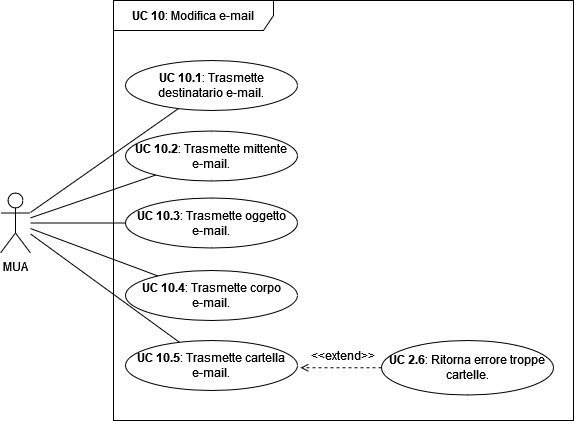
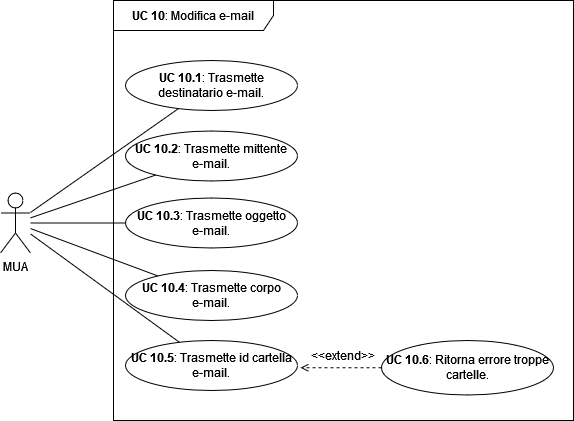
uc10 ok

Changed region(s): [[0.6516, 0.8337, 0.9477, 0.8646], [0.2073, 0.8337, 0.5035, 0.8646]]

diff --git a/src/analisi_dei_requisiti/sections/usecase/UC10.tex b/src/analisi_dei_requisiti/sections/usecase/UC10.tex
@@ -1,16 +1,11 @@
 %LTeX: language=it
-\begin{figure}[h]
+\begin{figure}[H]
     \includegraphics[width=0.75\textwidth]{sections/uc_imgs/UC-modifica.png}
     \centering
     \caption{Casi d'uso relativi alla modifica}
 \end{figure}
 
 \subsection{UC 10 - Modifica e-mail} \label{sec:UC10}
-    \begin{figure}[h]
-        \includegraphics[width=0.85\textwidth]{sections/uc_imgs/UC10.png}
-        \centering
-        \caption{Diagramma sotto-casi UC 10}
-    \end{figure}
     \begin{itemize}
         \item \textbf{Attore principale}: MUA;
         \item \textbf{Descrizione}: il MUA deve poter modificare una e-mail nel sistema;
@@ -36,13 +31,13 @@
             \end{enumerate}
     \end{itemize}
 
-    \begin{figure}[h]
-        \includegraphics[width=0.75\textwidth]{sections/uc_imgs/UC10.png}
+    \begin{figure}[H]
+        \includegraphics[width=0.85\textwidth]{sections/uc_imgs/UC10.png}
         \centering
-        \caption{Diagramma sotto-casi UC 10.1}
+        \caption{Diagramma sotto-casi UC 10}
     \end{figure}
 
-    \subsubsection{UC 10.1 - Trasmette il destinatario dell'e-mail} \label{sec:UC10.1}
+    \subsubsection{UC 10.1 - Trasmette destinatario e-mail} \label{sec:UC10.1}
     \begin{itemize}
         \item \textbf{Attore}: MUA;
         \item \textbf{Descrizione}: il MUA invia al sistema il nuovo destinatario dell'e-mail;
@@ -57,7 +52,7 @@
         \item \textbf{Estensioni}: nessuna;
     \end{itemize}
 
-    \subsubsection{UC 10.2 - Trasmette il mittente dell'e-mail} \label{sec:UC10.2}
+    \subsubsection{UC 10.2 - Trasmette mittente e-mail} \label{sec:UC10.2}
     \begin{itemize}
         \item \textbf{Attore}: MUA;
         \item \textbf{Descrizione}: il MUA invia al sistema il nuovo mittente dell'e-mail;
@@ -72,7 +67,7 @@
         \item \textbf{Estensioni}: nessuna.
     \end{itemize}
 
-    \subsubsection{UC 10.3 - Trasmette l'oggetto dell'e-mail} \label{sec:UC10.3}
+    \subsubsection{UC 10.3 - Trasmette oggetto e-mail} \label{sec:UC10.3}
     \begin{itemize}
         \item \textbf{Attore}: MUA;
         \item \textbf{Descrizione}: il MUA invia al sistema il nuovo oggetto dell'e-mail;
@@ -87,7 +82,7 @@
         \item \textbf{Estensioni}: nessuna.
     \end{itemize}
 
-    \subsubsection{UC 10.4 - Trasmette il corpo dell'e-mail} \label{sec:UC10.4}
+    \subsubsection{UC 10.4 - Trasmette corpo e-mail} \label{sec:UC10.4}
     \begin{itemize}
         \item \textbf{Attore}: MUA;
         \item \textbf{Descrizione}: il MUA invia al sistema il nuovo corpo dell'e-mail;
@@ -102,7 +97,7 @@
         \item \textbf{Estensioni}: nessuna.
     \end{itemize}
 
-    \subsubsection{UC 10.5 - Trasmette id cartella dell'e-mail} \label{sec:UC10.5}
+    \subsubsection{UC 10.5 - Trasmette id cartella e-mail} \label{sec:UC10.5}
     \begin{itemize}
         \item \textbf{Attore}: MUA;
         \item \textbf{Descrizione}: il MUA invia al sistema il nuovo id della cartella di destinazione dell'e-mail;
@@ -116,14 +111,14 @@
         \item \textbf{Generalizzazioni}: nessuna;
         \item \textbf{Estensioni}:             
         \begin{enumerate}[label=\alph*.]
-            \item ci sono troppe cartelle di destinazione in cui salvare l'email:
+            \item il sistema non riesce a modificare l'e-mail perchè ci sono troppe cartelle di destinazione in cui salvare l'email:
             \begin{enumerate}[label=\arabic*.]
                 \item il sistema ritorna un errore al MUA di troppe cartelle (\hyperref[sec:UC10.6]{UC 10.6}).
             \end{enumerate}
         \end{enumerate}
     \end{itemize}
 
-    \subsubsection{UC 10.6 - Ritorna l'errore troppe cartelle} \label{sec:UC10.6}
+    \subsubsection{UC 10.6 - Ritorna errore troppe cartelle} \label{sec:UC10.6}
     \begin{itemize}
         \item \textbf{Attore}: MUA;
         \item \textbf{Descrizione}: il MUA riceve l'errore che le cartelle di destinazione dell'email sono troppe;
